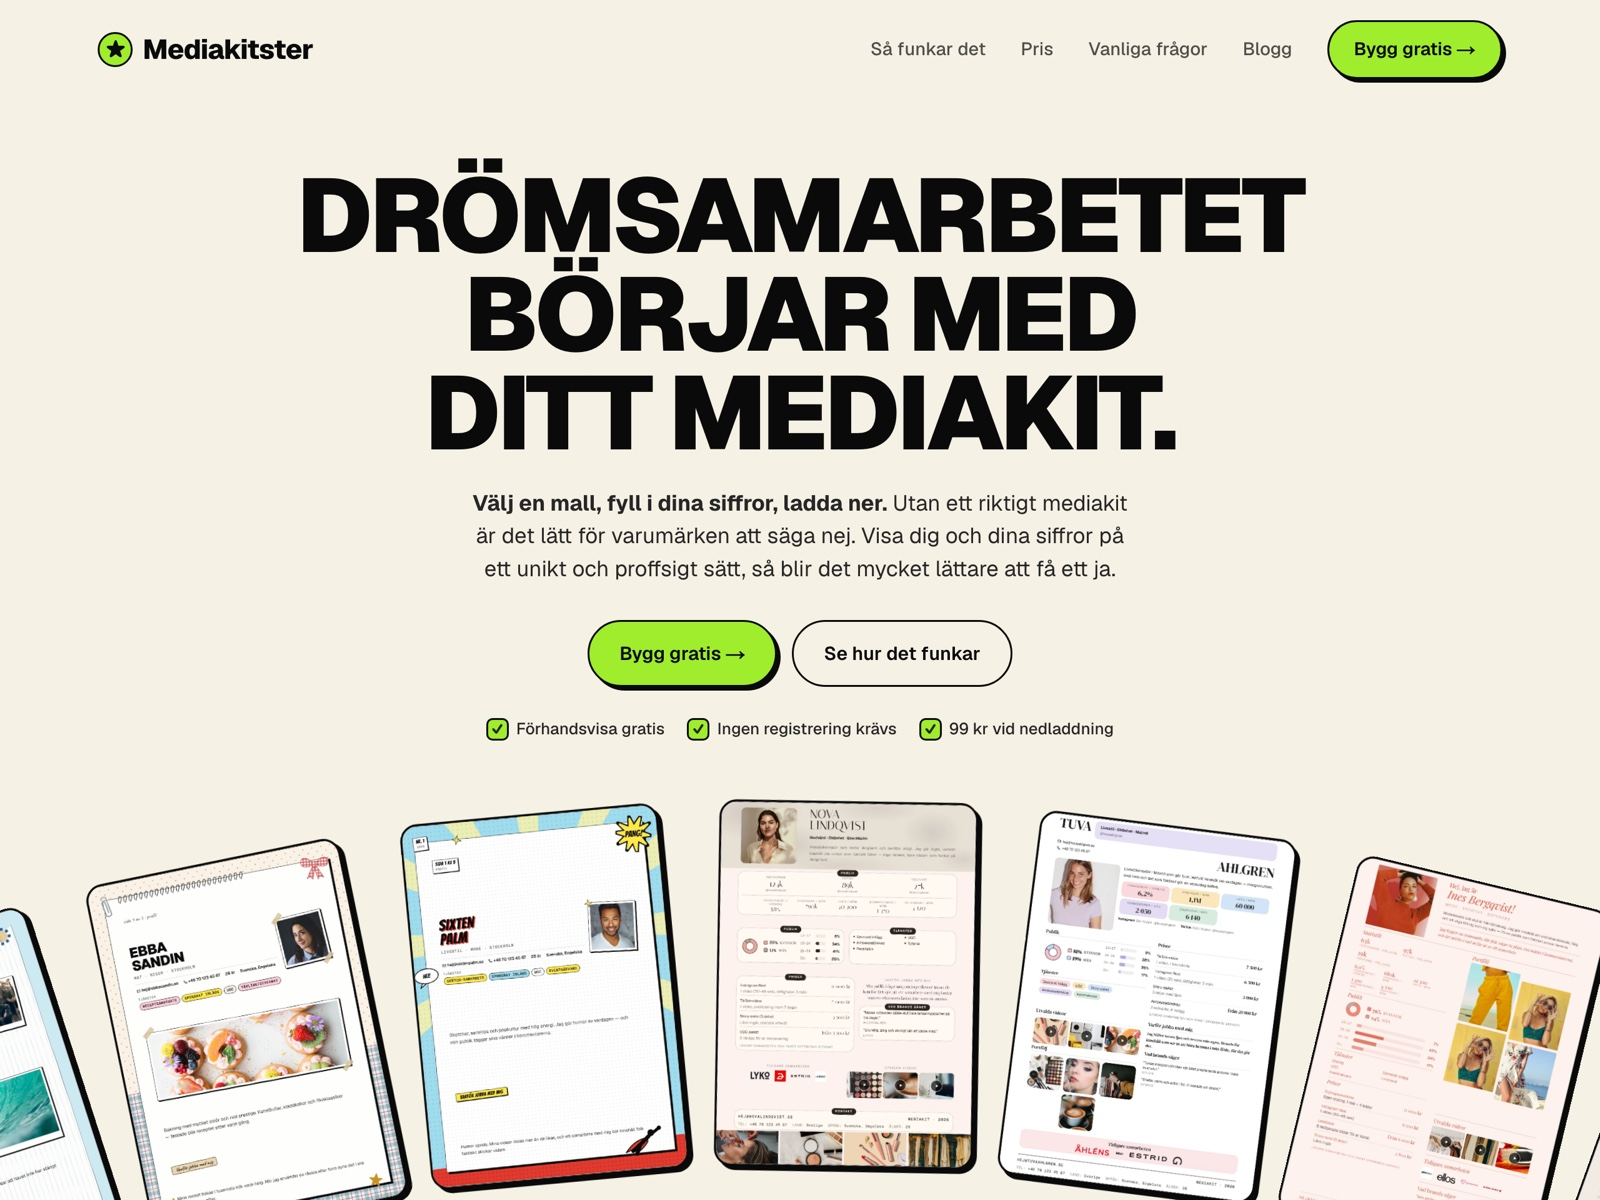
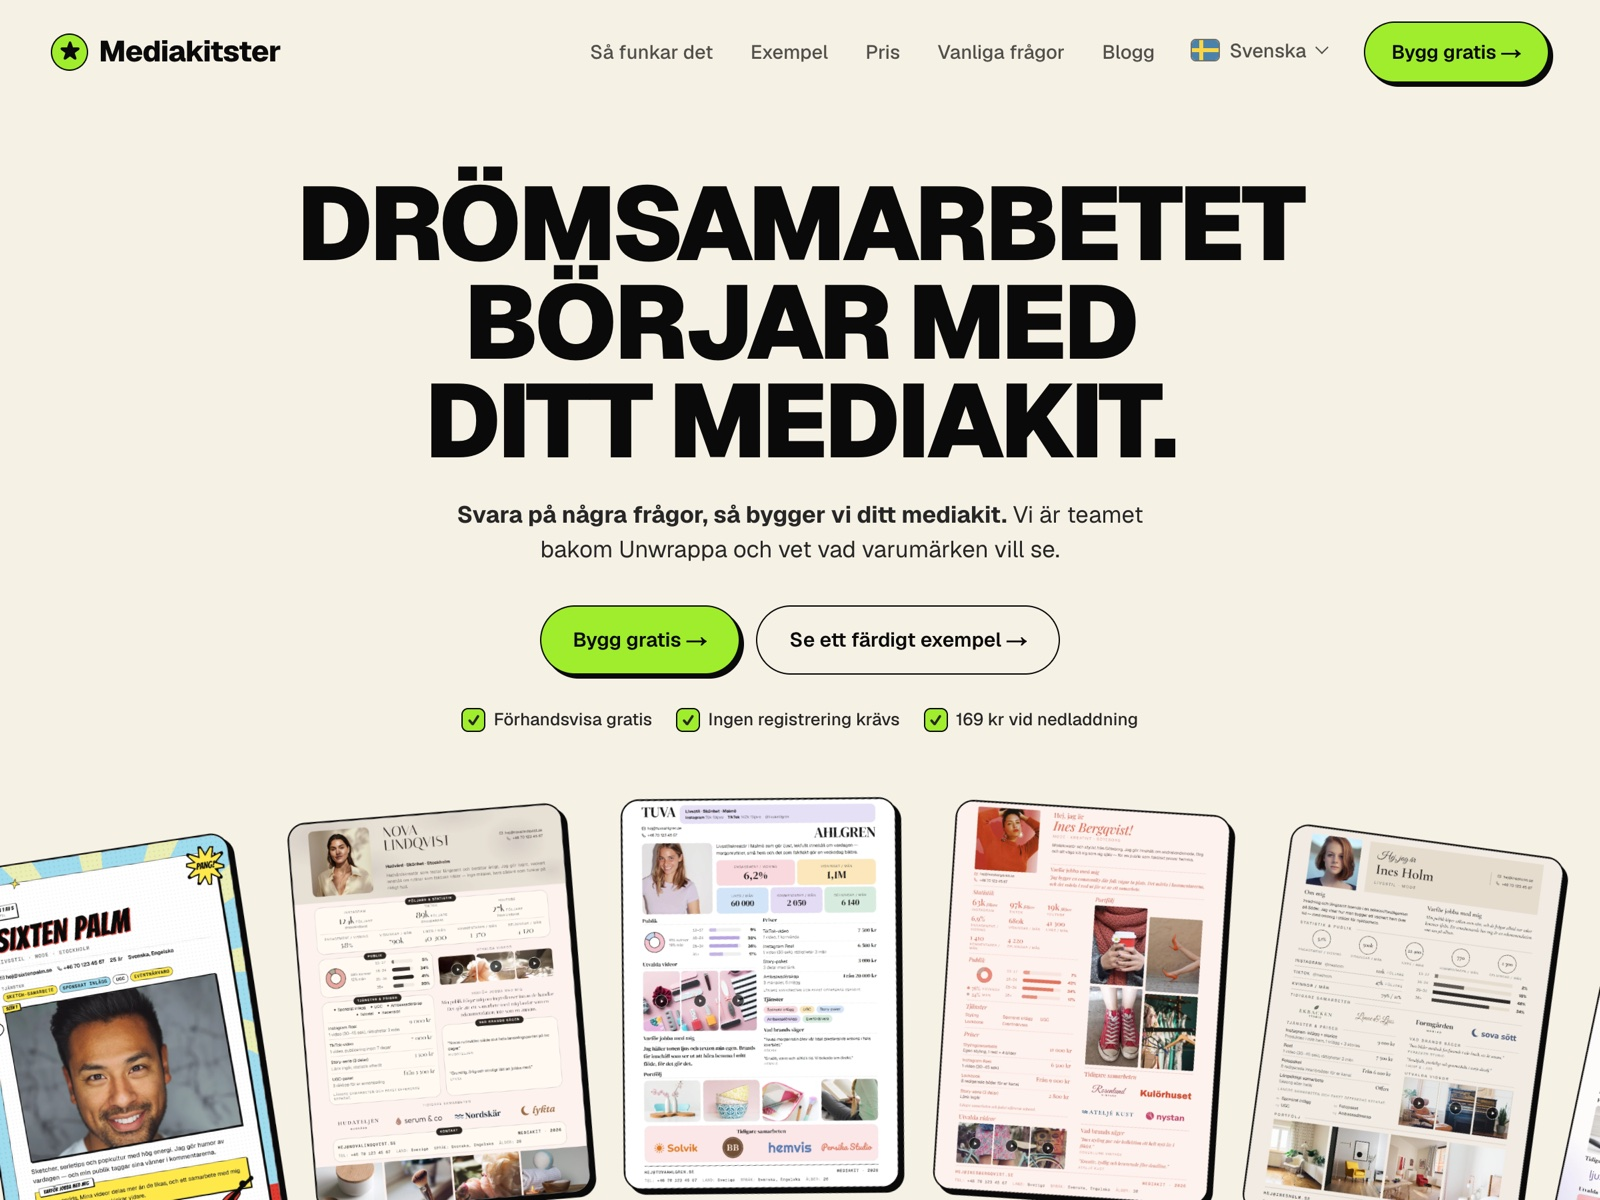
Replace Unwrappa and Mediakitster screenshots with the current sites
Fresh 1600x1200 captures of both home pages, and alt text for the
Unwrappa shot that matches its new hero.

diff --git a/index.html b/index.html
@@ -406,7 +406,7 @@
       <div class="frame">
         <div class="bar" aria-hidden="true"><i></i><i></i><i></i><span>unwrappa.com</span></div>
         <div class="shot-wrap">
-          <img src="images/unwrappa.jpg" alt="The Unwrappa home page, showing the brand side of the marketplace" onerror="this.style.display='none';this.nextElementSibling.style.display='flex'">
+          <img src="images/unwrappa.jpg" alt="The Unwrappa home page, with its headline and a card showing 900+ verified creators by niche" onerror="this.style.display='none';this.nextElementSibling.style.display='flex'">
           <div class="frame-empty">
             <svg viewBox="0 0 24 24" fill="none" stroke="currentColor" stroke-width="1.5"><rect x="3" y="4" width="18" height="16" rx="3"/><circle cx="8.5" cy="9.5" r="1.5"/><path d="M21 16l-5-5-9 9"/></svg>
             <b>Screenshot goes here</b>
